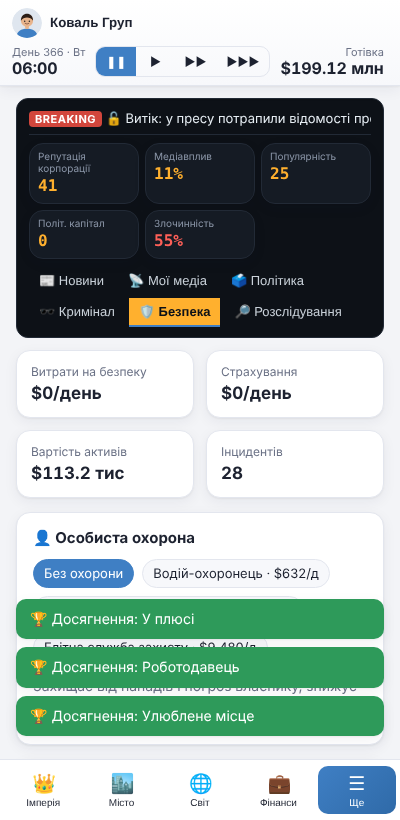
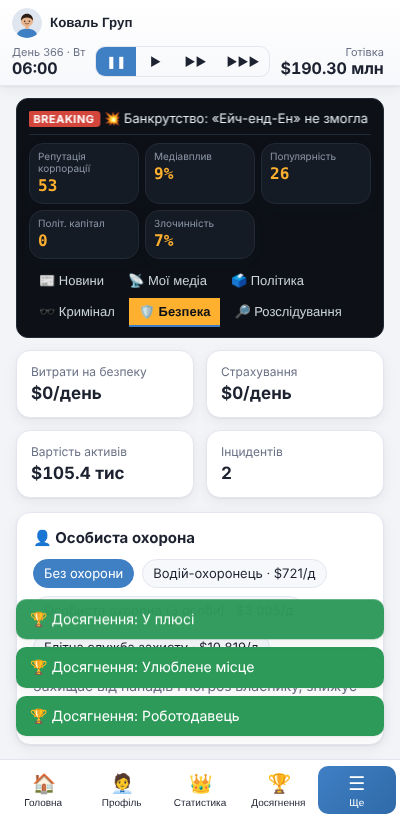
Нова головна сторінка й «Живий світ»
- ui8.js: головна за дизайном гравця — шапка з подіями/досягненнями/налаштуваннями,
  картка CEO з рівнем, 6 розділів з ілюстраціями, біржа BIZ-50, досягнення, подія дня
- liveworld.js: щоденна подія з наслідками — попит на формати, ціни сировини, інфляція,
  ставка ЦБ, рецесія, криза, банкрутства, нові конкуренти, звітність, настрої, постачання
- нижнє меню: Головна · Профіль · Статистика · Досягнення · Ще

Claude-Session: https://claude.ai/code/session_01DFDN7feRuoQwXwDyFoNLor

diff --git a/business-manager/ui8.js b/business-manager/ui8.js
@@ -1,0 +1,85 @@
+'use strict';
+/* БІЗНЕС ІМПЕРІЯ — головна сторінка (за дизайном гравця): шапка з поштою/трофеями/налаштуваннями,
+   картка CEO з рівнем, 6 великих розділів-ілюстрацій, біржа BIZ-50, досягнення й події світу. */
+
+// ---------- ілюстрації (SVG, без зовнішніх файлів) ----------
+const ILL = {
+  business: () => `<svg viewBox="0 0 200 140" preserveAspectRatio="xMidYMid slice"><defs><linearGradient id="isk1" x1="0" y1="0" x2="0" y2="1"><stop offset="0" stop-color="#5fa8e8"/><stop offset="1" stop-color="#cfe6fb"/></linearGradient><linearGradient id="igl" x1="0" y1="0" x2="1" y2="1"><stop offset="0" stop-color="#2f6fb8"/><stop offset=".5" stop-color="#7fb6ea"/><stop offset="1" stop-color="#1d4f8f"/></linearGradient></defs><rect width="200" height="140" fill="url(#isk1)"/><ellipse cx="40" cy="30" rx="30" ry="8" fill="#fff" opacity=".6"/><ellipse cx="150" cy="22" rx="24" ry="6" fill="#fff" opacity=".5"/>${[[10, 70, 22], [34, 45, 26], [62, 20, 34], [98, 35, 28], [128, 55, 24], [154, 30, 30], [184, 65, 20]].map(([x, y, w]) => `<rect x="${x}" y="${y}" width="${w}" height="${140 - y}" fill="url(#igl)"/>${Array.from({ length: Math.floor((140 - y) / 7) }, (_, i) => `<rect x="${x + 2}" y="${y + 3 + i * 7}" width="${w - 4}" height="1.2" fill="#dbeeff" opacity=".55"/>`).join('')}`).join('')}<rect y="128" width="200" height="12" fill="#3c6b4a"/></svg>`,
+  economy: () => `<svg viewBox="0 0 200 140" preserveAspectRatio="xMidYMid slice"><defs><linearGradient id="iec" x1="0" y1="0" x2="0" y2="1"><stop offset="0" stop-color="#0d1d3a"/><stop offset="1" stop-color="#1c3a6b"/></linearGradient><linearGradient id="igd" x1="0" y1="0" x2="1" y2="0"><stop offset="0" stop-color="#b8860b"/><stop offset=".5" stop-color="#ffd66b"/><stop offset="1" stop-color="#c8961e"/></linearGradient></defs><rect width="200" height="140" fill="url(#iec)"/>${Array.from({ length: 14 }, (_, i) => { const h = 10 + ((i * 37) % 30), y = 70 - i * 2 - h / 2; return `<line x1="${10 + i * 13}" x2="${10 + i * 13}" y1="${y - 6}" y2="${y + h + 6}" stroke="${i % 3 ? '#4fb3ff' : '#7aa7d6'}" stroke-width="1"/><rect x="${7 + i * 13}" y="${y}" width="6" height="${h}" fill="${i % 3 ? '#3a8fd6' : '#5a7fa8'}" opacity=".7"/>`; }).join('')}${[[60, 6], [80, 9], [100, 12], [120, 8]].map(([x, n]) => Array.from({ length: n }, (_, k) => `<ellipse cx="${x}" cy="${128 - k * 5}" rx="10" ry="3" fill="url(#igd)" stroke="#8a6410" stroke-width=".4"/>`).join('')).join('')}${[[150, 40], [165, 60], [180, 85]].map(([x, h]) => `<rect x="${x}" y="${130 - h}" width="11" height="${h}" fill="url(#igd)"/>`).join('')}<path d="M100 95 L140 70 L160 78 L190 30" stroke="#ffd66b" stroke-width="5" fill="none" stroke-linecap="round"/><path d="M182 28 L194 24 L192 37 Z" fill="#ffd66b"/></svg>`,
+  state: () => `<svg viewBox="0 0 200 140" preserveAspectRatio="xMidYMid slice"><defs><linearGradient id="ist" x1="0" y1="0" x2="0" y2="1"><stop offset="0" stop-color="#6fb2ea"/><stop offset="1" stop-color="#e2f0fb"/></linearGradient></defs><rect width="200" height="140" fill="url(#ist)"/><circle cx="20" cy="110" r="16" fill="#4f8f4a"/><circle cx="182" cy="108" r="18" fill="#4f8f4a"/><rect x="30" y="58" width="140" height="70" fill="#efe9da"/><polygon points="24,60 100,30 176,60" fill="#e6dfcd" stroke="#cfc6b0"/><polygon points="40,58 100,36 160,58" fill="#f5f0e3"/>${Array.from({ length: 9 }, (_, i) => `<rect x="${38 + i * 15}" y="64" width="6" height="56" fill="#fbf8f0" stroke="#d8cfba" stroke-width=".6"/>`).join('')}<rect x="26" y="120" width="148" height="8" fill="#d8cfba"/><rect x="20" y="128" width="160" height="6" fill="#c9bfa8"/><line x1="70" y1="10" x2="70" y2="40" stroke="#888" stroke-width="1.2"/><rect x="70" y="10" width="16" height="10" fill="#2f6fd6"/><rect x="70" y="15" width="16" height="5" fill="#ffd23f"/><line x1="130" y1="12" x2="130" y2="42" stroke="#888" stroke-width="1.2"/><rect x="130" y="12" width="16" height="10" fill="#d64545"/><rect x="130" y="15.5" width="16" height="3" fill="#fff"/></svg>`,
+  city: () => `<svg viewBox="0 0 200 140" preserveAspectRatio="xMidYMid slice"><defs><linearGradient id="icy" x1="0" y1="0" x2="0" y2="1"><stop offset="0" stop-color="#7cb4e4"/><stop offset="1" stop-color="#d7e8f6"/></linearGradient><linearGradient id="iwt" x1="0" y1="0" x2="0" y2="1"><stop offset="0" stop-color="#2f6ea8"/><stop offset="1" stop-color="#173f66"/></linearGradient></defs><rect width="200" height="140" fill="url(#icy)"/>${[[5, 60, 14], [20, 45, 12], [33, 70, 16], [50, 30, 10], [61, 52, 14], [76, 20, 8], [85, 40, 15], [101, 55, 12], [114, 28, 13], [128, 48, 16], [145, 36, 12], [158, 62, 14], [173, 44, 12], [186, 58, 14]].map(([x, y, w]) => `<rect x="${x}" y="${y}" width="${w}" height="${100 - y}" fill="${['#3d6c9c', '#4f7fb0', '#2c5682', '#6a90b8'][x % 4]}"/>`).join('')}<rect x="79" y="8" width="2" height="12" fill="#2c5682"/><rect y="100" width="200" height="40" fill="url(#iwt)"/>${Array.from({ length: 8 }, (_, i) => `<rect x="${10 + i * 25}" y="${106 + (i % 3) * 8}" width="14" height="1.4" fill="#9cc7ef" opacity=".6"/>`).join('')}</svg>`,
+  dev: () => `<svg viewBox="0 0 200 140" preserveAspectRatio="xMidYMid slice"><defs><linearGradient id="idv" x1="0" y1="0" x2="1" y2="1"><stop offset="0" stop-color="#1b4f8f"/><stop offset="1" stop-color="#0b2347"/></linearGradient><linearGradient id="ifl" x1="0" y1="0" x2="0" y2="1"><stop offset="0" stop-color="#5ec8ff"/><stop offset="1" stop-color="#1f6fd6"/></linearGradient></defs><rect width="200" height="140" fill="url(#idv)"/>${Array.from({ length: 6 }, (_, i) => `<rect x="${8 + i * 32}" y="${20 + (i % 2) * 14}" width="12" height="40" rx="5" fill="#6fb6ff" opacity=".18"/>`).join('')}<rect x="60" y="118" width="80" height="8" rx="2" fill="#e8edf3"/><rect x="92" y="60" width="10" height="58" fill="#d9dfe7"/><rect x="74" y="34" width="14" height="44" rx="3" fill="#f2f5f8" transform="rotate(-28 81 56)"/><rect x="70" y="20" width="10" height="18" rx="2" fill="#2b2f36" transform="rotate(-28 75 29)"/><circle cx="106" cy="76" r="10" fill="#c9d1db"/><rect x="66" y="96" width="44" height="6" fill="#bfc8d3"/><path d="M150 50 L150 74 L132 112 Q130 120 138 120 L176 120 Q184 120 182 112 L164 74 L164 50 Z" fill="#e6f3ff" opacity=".85"/><path d="M140 96 L174 96 L181 112 Q183 119 175 119 L139 119 Q131 119 133 112 Z" fill="url(#ifl)"/><rect x="147" y="44" width="20" height="7" rx="2" fill="#e6f3ff"/></svg>`,
+  other: () => `<svg viewBox="0 0 200 140" preserveAspectRatio="xMidYMid slice"><defs><linearGradient id="iot" x1="0" y1="0" x2="0" y2="1"><stop offset="0" stop-color="#3a4a66"/><stop offset=".6" stop-color="#c88a4a"/><stop offset="1" stop-color="#5a4636"/></linearGradient></defs><rect width="200" height="140" fill="url(#iot)"/><circle cx="160" cy="70" r="22" fill="#ffcf7a" opacity=".5"/>${[[0, 70, 30], [30, 82, 22], [150, 76, 26], [176, 66, 24]].map(([x, y, w]) => `<rect x="${x}" y="${y}" width="${w}" height="${140 - y}" fill="#2e2a2a" opacity=".55"/>`).join('')}<rect x="44" y="72" width="54" height="40" rx="3" fill="#f3efe6" transform="rotate(-8 71 92)"/>${Array.from({ length: 5 }, (_, i) => `<rect x="50" y="${80 + i * 6}" width="${i ? 40 : 30}" height="${i ? 2 : 4}" fill="#555" transform="rotate(-8 71 92)"/>`).join('')}<circle cx="128" cy="108" r="14" fill="#fff"/><path d="M128 94 l5 6 -5 5 -5 -5 Z M114 108 l6 -3 3 6 -5 4 Z M142 108 l-6 -3 -3 6 5 4 Z" fill="#222"/><path d="M60 30 L104 74 M104 30 L60 74" stroke="#d9dde3" stroke-width="5" stroke-linecap="round"/><path d="M60 30 L54 24 M104 30 L110 24" stroke="#8a6a3a" stroke-width="7" stroke-linecap="round"/><path d="M150 24 l6 12 13 2 -10 9 3 13 -12 -7 -12 7 3 -13 -10 -9 13 -2 Z" fill="#ffd23f" opacity=".9"/></svg>`,
+};
+const HOME_CATS = [
+  { k: 'business', icon: '🏢', name: 'Бізнес', sub: 'Компанії, філії та корпорації', views: ['businesses', 'industry', 'divisions', 'cars', 'hq', 'staff', 'map'] },
+  { k: 'economy', icon: '📈', name: 'Економіка', sub: 'Ринки, банки, інвестиції', views: ['finance', 'stocks', 'bank', 'ventures', 'world', 'ranking'] },
+  { k: 'state', icon: '🏛', name: 'Держава', sub: 'Політика, закони й вплив', views: ['politics', 'gov', 'antitrust', 'investigations'] },
+  { k: 'city', icon: '📍', name: 'Місто', sub: 'Інфраструктура й нерухомість', views: ['map', 'citydev', 'realty', 'regions', 'globe'] },
+  { k: 'dev', icon: '⚗', name: 'Розвиток', sub: 'Технології й інновації', views: ['science', 'tech'] },
+  { k: 'other', icon: '⚔', name: 'Інші системи', sub: 'Війни корпорацій, злочинність, ЗМІ й спорт', views: ['corpwar', 'rivals', 'media', 'newsroom', 'underworld', 'security', 'clubs', 'sponsor'] },
+];
+const VIEW_DESC = { businesses: 'ваші магазини', industry: 'заводи й склад', divisions: 'телеком, авіа, готелі, фарма, космос', cars: 'власні моделі авто', hq: 'директори й дочірні компанії', staff: 'працівники й відділи', map: '3D-карта міста', finance: 'звіти й баланс', stocks: 'біржа й IPO', bank: 'кредити й власний банк', ventures: 'інвестиції в стартапи', world: 'сировина, валюти, мита', ranking: 'топ компаній', politics: 'партії, вибори, закони', gov: 'міністерства й бюджет', antitrust: 'частки ринку й справи', investigations: 'суди й розслідування', citydev: 'будівництво інфраструктури', realty: 'квартири, ТЦ, ЖК', regions: 'нові міста', globe: 'світова карта', science: 'дерево технологій', tech: 'IT-продукти й R&D', corpwar: 'альянси, картелі, суди', rivals: 'ІІ-конкуренти', media: 'телеканали, газети, сайти', newsroom: 'термінал новин', underworld: 'угруповання', security: 'охорона й страхування', clubs: 'власні клуби й ліги', sponsor: 'спонсорство команд' };
+
+/** Рівень CEO: досвід за досягнення, капітал, дні в грі й покоління. */
+function ceoLevel() {
+  const nw = Math.max(1, netWorth());
+  const xp = Object.keys(state.achievements).length * 60 + Math.max(0, Math.log10(nw) - 3) * 120 + state.day * 0.8 + (state.life ? (state.life.gen - 1) * 300 : 0);
+  const lvl = Math.floor(Math.sqrt(xp / 25)) + 1, cur = (lvl - 1) * (lvl - 1) * 25, next = lvl * lvl * 25;
+  return { lvl, prog: (xp - cur) / (next - cur) };
+}
+function idxRange(r) { const L = liveState(), n = { w: 7, m: 30, q: 90, y: 365, all: 99999 }[r] || 30; return L.idx.slice(-n - 1); }
+
+Object.assign(VIEWS, {
+  home() {
+    const last = state.ledger[state.ledger.length - 1] || {}, h = state.history;
+    const nw = netWorth(), nwPrev = h.length > 1 ? h[h.length - 2].nw : nw;
+    const C = ceoLevel(), al = typeof empireAlerts === 'function' ? empireAlerts() : [];
+    const L = liveState(), rng = state.ui.idxRange || 'm', pts = idxRange(rng);
+    const iv = pts.length ? pts[pts.length - 1].v : 1000, i0 = pts.length ? pts[0].v : iv, ich = i0 ? iv / i0 - 1 : 0;
+    const mn = Math.min(...pts.map((p) => p.v), iv), mx = Math.max(...pts.map((p) => p.v), iv), W = 300, H = 70;
+    const xy = pts.map((p, i) => `${(i / Math.max(1, pts.length - 1) * W).toFixed(1)},${(H - (p.v - mn) / Math.max(1e-9, mx - mn) * (H - 8) - 4).toFixed(1)}`);
+    const col = ich >= 0 ? '#22a35a' : '#e04848';
+    const got = Object.keys(state.achievements).length, today = L.today && L.today.day >= state.day - 1 ? L.today : null;
+    return `<div class="home">
+      <div class="hhead"><div class="hlogo">👑<div><b>БізІмперія</b><small>Побудуй свою імперію</small></div></div>
+        <div class="hicons"><button data-act="homeEvents" aria-label="Події">✉${al.length ? `<i>${al.length}</i>` : ''}</button><button data-act="nav" data-v="achievements" aria-label="Досягнення">🏆</button><button data-act="nav" data-v="settings" aria-label="Налаштування">⚙</button></div></div>
+      <div class="hprofile" data-act="nav" data-v="personal"><div class="hav">${avatarSVG(state.me.look, 64)}</div><div class="hpinfo"><b>${esc(state.me.name).toUpperCase()} 👑</b><small>CEO · Рівень ${C.lvl}</small><div class="hxp"><i style="width:${Math.round(C.prog * 100)}%"></i></div><small class="hxpp">${Math.round(C.prog * 100)}%</small></div>
+        <div class="hmoney"><div><span>💵</span><b>${moneyK(state.cash).replace('$', '')}</b><small class="${(last.profit || 0) >= 0 ? 'up' : 'down'}">${(last.profit || 0) >= 0 ? '+' : ''}${moneyK(last.profit || 0).replace('$', '')}/день</small></div><div><span>🪙</span><b>${moneyK(nw).replace('$', '')}</b><small class="${nw >= nwPrev ? 'up' : 'down'}">${nw >= nwPrev ? '+' : ''}${moneyK(nw - nwPrev).replace('$', '')}/день</small></div></div></div>
+      <div class="hgrid">${HOME_CATS.map((c) => `<button class="hcat" data-act="homeCat" data-v="${c.k}">${ILL[c.k]()}<div class="hshade"></div><div class="htxt"><b><span>${c.icon}</span> ${c.name}</b><small>${c.sub}</small></div><span class="hchev">›</span></button>`).join('')}</div>
+      <div class="card hstock" data-act="nav" data-v="stocks"><div class="row between"><b>📊 Біржа</b><span>BIZ-50 <b>${iv.toFixed(1)}</b> <span style="color:${col}">${ich >= 0 ? '▲' : '▼'} ${pct(Math.abs(ich), 1)}</span></span></div>
+        <svg viewBox="0 0 ${W} ${H}" preserveAspectRatio="none" class="hspark">${xy.length > 1 ? `<path d="M0,${H} L${xy.join(' L')} L${W},${H} Z" fill="${col}" opacity=".15"/><path d="M${xy.join(' L')}" stroke="${col}" stroke-width="1.6" fill="none" vector-effect="non-scaling-stroke"/>` : `<text x="${W / 2}" y="${H / 2}" text-anchor="middle" font-size="10" fill="currentColor" opacity=".5">історія з’явиться після першого дня</text>`}</svg>
+        <div class="hrng">${[['w', '1т'], ['m', '1м'], ['q', '3м'], ['y', '1р'], ['all', 'Все']].map(([k, n]) => `<button class="${rng === k ? 'on' : ''}" data-act="idxRange" data-v="${k}">${n}</button>`).join('')}</div></div>
+      <div class="hrow"><button class="card hmini" data-act="nav" data-v="achievements"><span class="big">🏆</span><div><b>Досягнення</b><small>${got} / ${ACHIEVEMENTS.length}</small><div class="hxp"><i style="width:${Math.round(got / ACHIEVEMENTS.length * 100)}%"></i></div></div><span class="hchev2">›</span></button>
+        <button class="card hmini" data-act="homeEvents"><span class="big">📅</span><div><b>Події ${al.length ? `<i class="hbadge">${al.length}</i>` : ''}</b><small>${today ? `${today.icon} ${esc(today.title)}` : 'Нові події у світі'}</small></div><span class="hchev2">›</span></button></div>
+      ${today ? `<div class="card hevent ${today.kind}"><small>Подія дня · день ${today.day}</small><p><b>${today.icon} ${esc(today.title)}</b><br>${esc(today.text)}</p>${today.effect ? `<small class="muted">Наслідок: ${esc(today.effect)}</small>` : ''}</div>` : ''}
+    </div>`;
+  },
+});
+
+Object.assign(ACT, {
+  homeCat: (d) => {
+    const c = HOME_CATS.find((x) => x.k === d.v); if (!c) return;
+    const byId = Object.fromEntries(NAV.map((x) => [x[0], x]));
+    showModal(`<h2>${c.icon} ${c.name}</h2><div class="newlist">${c.views.filter((v) => byId[v] || VIEWS[v]).map((v) => `<button data-act="nav" data-v="${v}"><span>${byId[v] ? byId[v][1] : '•'}</span><div><b>${byId[v] ? byId[v][2] : v}</b><br><small>${VIEW_DESC[v] || ''}</small></div></button>`).join('')}</div><div class="row end"><button class="btn" data-act="modalClose">Закрити</button></div>`);
+  },
+  homeEvents: () => {
+    const al = typeof empireAlerts === 'function' ? empireAlerts() : [], L = liveState();
+    showModal(`<h2>📅 Події</h2>${al.length ? `<h3>Потребує уваги</h3><ul class="alerts">${al.map(([k, t, v]) => `<li class="${k}" data-act="nav" data-v="${v}">${t} <span>›</span></li>`).join('')}</ul>` : ''}<h3>Події світу</h3><ul class="log news">${L.hist.slice(0, 20).map((e) => `<li class="${e.kind}"><small>Д${e.day}</small> ${e.icon} <b>${esc(e.title)}</b> — ${esc(e.text)}</li>`).join('') || '<li class="muted">Поки тихо.</li>'}</ul><div class="row end"><button class="btn" data-act="nav" data-v="newsroom">Усі новини</button><button class="btn primary" data-act="modalClose">Закрити</button></div>`);
+  },
+  idxRange: (d) => { state.ui.idxRange = d.v; },
+});
+
+// Нижнє меню: Головна · Профіль · Статистика · Досягнення · Ще
+NAV.unshift(['home', '🏠', 'Головна', true]);
+for (const n of NAV) n[3] = ['home', 'personal', 'empire', 'achievements'].includes(n[0]);
+const NAV_SHORT = { personal: 'Профіль', empire: 'Статистика', achievements: 'Досягнення' };
+renderNav = function () {
+  const v = state.ui.view, cur = v === 'biz' ? 'businesses' : v === 'fac' ? 'industry' : v;
+  const ORDER = ['home', 'personal', 'empire', 'achievements'];
+  const list = [...ORDER.map((id) => NAV.find((x) => x[0] === id)).filter(Boolean), ...NAV.filter((x) => !ORDER.includes(x[0]))];
+  const items = list.map(([id, ic, n, main]) => `<button class="${cur === id ? 'active' : ''} ${main ? 'main' : 'extra'}" data-act="nav" data-v="${id}"><span class="ic">${ic}</span><span class="lbl">${main && isMobile() && NAV_SHORT[id] ? NAV_SHORT[id] : n}</span></button>`).join('');
+  const inMore = !NAV.find((x) => x[0] === cur && x[3]);
+  document.getElementById('nav').innerHTML = items + `<button class="more ${inMore ? 'active' : ''}" data-act="more"><span class="ic">☰</span><span class="lbl">Ще</span></button>`;
+};
+if (typeof NAV_GROUPS !== 'undefined') NAV_GROUPS[0][1].unshift('home');

diff --git a/business-manager/liveworld.js b/business-manager/liveworld.js
@@ -1,0 +1,118 @@
+'use strict';
+/* БІЗНЕС ІМПЕРІЯ — «Живий світ»: щодня одна помітна подія з реальними наслідками
+   (зміни попиту на формати, ціни сировини, інфляційні шоки, рішення ЦБ, рецесії й кризи, банкрутства,
+   поява нових конкурентів, корпоративні новини, що рухають біржу, настрої споживачів, перебої постачання).
+   Плюс біржовий індекс BIZ-50 для головної сторінки. Доповнює наявні випадкові події, не замінює їх. */
+
+const NEW_CO_NAMES = ['Нова Хвиля', 'Ікар Ритейл', 'Полярис Груп', 'Вектор Трейд', 'Сонячна Долина', 'Орбіта Маркет', 'Глорія Холдинг', 'Дельта Фудс', 'Кварта', 'Акорд Стор', 'Меридіан', 'Цитадель Брендс', 'Фенікс Ритейл', 'Атлант Сіті', 'Бриз Кафе', 'Нео Електро'];
+
+function liveState() {
+  if (!state.live) state.live = { today: null, hist: [], idx: [], base: 0, cd: {} };
+  return state.live;
+}
+const capTotal = () => sum(aliveCos(), (c) => c.price * c.shares);
+/** BIZ-50: середня зміна ціни 50 найбільших компаній від дня їхньої появи в індексі. */
+function bizIndex() {
+  const top = aliveCos().sort((a, b) => b.price * b.shares - a.price * a.shares).slice(0, 50);
+  for (const c of top) if (!c.p0) c.p0 = c.price;
+  return top.length ? sum(top, (c) => c.price / c.p0) / top.length * 1000 : 1000;
+}
+function liveEvent(icon, title, text, kind, effect) {
+  const L = liveState();
+  L.today = { day: state.day, icon, title, text, kind, effect };
+  L.hist.unshift(L.today); if (L.hist.length > 60) L.hist.length = 60;
+  news(`${icon} ${title}: ${text}`, 'world', kind, kind === 'bad' && /криз|рецес|обвал|банкрут/i.test(title));
+}
+const retailTypes = () => Object.keys(TYPES).filter((t) => !TYPES[t].dynamic);
+
+const LIVE_EVENTS = {
+  demand: { w: 5, cd: 2, run() {
+    const t = pick(retailTypes()), up = chance(0.5), m = +(up ? rnd(1.12, 1.35) : rnd(0.72, 0.9)).toFixed(2), days = ri(5, 14);
+    state.mods.push({ kind: 'demand', key: t, mult: m, days, label: `${up ? '📈' : '📉'} Попит: ${TYPES[t].name} ×${m}` });
+    for (const co of aliveCos().filter((c) => c.sector === t)) co.price *= up ? 1.03 : 0.97;
+    liveEvent(up ? '📈' : '📉', `${up ? 'Зростання' : 'Падіння'} попиту`, `${TYPES[t].name}: ${up ? '+' : '−'}${Math.round(Math.abs(m - 1) * 100)}% покупців на ${days} дн. ${up ? 'Модний тренд у соцмережах.' : 'Покупці перейшли на альтернативи.'}`, up ? 'good' : 'bad', `попит ${TYPES[t].name} ×${m}, ${days} дн.`);
+  } },
+  commodity: { w: 4, cd: 3, run() {
+    const g = pick(Object.keys(GOODS)), up = chance(0.55), m = up ? rnd(1.18, 1.5) : rnd(0.7, 0.86);
+    state.market[g].mult = clamp(state.market[g].mult * m, 0.35, 3);
+    liveEvent(up ? '⛽' : '📦', up ? 'Стрибок цін на ринку' : 'Обвал цін на ринку', `${GOODS[g].name}: ${up ? '+' : '−'}${Math.round(Math.abs(m - 1) * 100)}% до ціни (${up ? 'дефіцит постачання' : 'надлишок на складах'}).`, '', `ціна ${GOODS[g].name} ×${m.toFixed(2)}`);
+  } },
+  inflation: { w: 2, cd: 20, run() {
+    const e = state.econ, d = rnd(1.2, 3);
+    e.inflation = +(e.inflation + d).toFixed(1); e.priceLevel *= 1 + d / 200;
+    liveEvent('💸', 'Інфляційний шок', `Ціни за місяць зросли швидше за прогноз: інфляція ${e.inflation.toFixed(1)}%. Зарплати й закупівлі дорожчають.`, 'bad', `інфляція +${d.toFixed(1)} п.п.`);
+  } },
+  rate: { w: 2, cd: 14, run() {
+    const e = state.econ, up = e.inflation > 7 ? chance(0.7) : e.inflation < 3 ? chance(0.25) : chance(0.45), d = +rnd(0.5, 1.5).toFixed(2);
+    e.rate = clamp(+(e.rate + (up ? d : -d)).toFixed(2), 0.25, 30);
+    for (const co of aliveCos()) co.price *= up ? 0.985 : 1.015;
+    liveEvent('🏦', up ? 'ЦБ підвищив ставку' : 'ЦБ знизив ставку', `Облікова ставка ${up ? 'зросла' : 'знизилась'} на ${d} п.п. до ${e.rate.toFixed(2)}%. Кредити ${up ? 'дорожчають' : 'дешевшають'}, біржа ${up ? 'падає' : 'росте'}.`, up ? 'bad' : 'good', `ставка ${up ? '+' : '−'}${d} п.п.`);
+  } },
+  recession: { w: 0.6, cd: 260, ok: () => ['growth', 'boom'].includes(state.econ.phase) && state.econ.phaseDays > 20, run() {
+    const e = state.econ; e.phase = 'recession'; e.phaseDays = ri(30, 60); e.demand *= 0.96;
+    for (const co of aliveCos()) co.price *= rnd(0.88, 0.96);
+    liveEvent('🌧', 'Початок рецесії', 'Ділова активність падає, споживачі економлять. Попит знижується на 1–3 місяці; держава може запустити субсидії.', 'bad', 'фаза: рецесія');
+  } },
+  crisis: { w: 0.4, cd: 500, ok: () => state.econ.phase !== 'crisis' && state.day > 120, run() {
+    const e = state.econ; e.phase = 'crisis'; e.phaseDays = ri(25, 45); e.demand *= 0.9; e.unemployment += 3;
+    for (const co of aliveCos()) co.price *= rnd(0.7, 0.85);
+    if (state.ipo) state.ipo.price *= 0.8;
+    liveEvent('🔥', 'Фінансова криза', 'Обвал ринків: біржа −15–30%, банки обмежують кредитування, безробіття зростає. Тримайте запас готівки.', 'bad', 'фаза: криза, біржа −20%');
+  } },
+  sector: { w: 3, cd: 4, run() {
+    const secs = [...new Set(aliveCos().map((c) => c.sector))], s = pick(secs), up = chance(0.6), m = up ? rnd(1.06, 1.15) : rnd(0.86, 0.95);
+    for (const co of aliveCos().filter((c) => c.sector === s)) co.price *= m;
+    if (TYPES[s]) state.mods.push({ kind: 'demand', key: s, mult: up ? 1.08 : 0.93, days: 7, label: `${up ? '🚀' : '🔻'} ${SECTORS[s].name}` });
+    liveEvent(up ? '🚀' : '🔻', `${SECTORS[s].name}: ${up ? 'ралі' : 'розпродаж'} акцій`, up ? 'Аналітики підвищили прогнози галузі після сильної звітності лідерів.' : 'Слабкі прогнози й регуляторні ризики тиснуть на галузь.', up ? 'good' : 'bad', `акції сектору ×${m.toFixed(2)}`);
+  } },
+  earnings: { w: 3, cd: 1, run() {
+    const co = pick(aliveCos().filter((c) => !isSub(c))); if (!co) return false;
+    const up = chance(0.55), m = up ? rnd(1.08, 1.2) : rnd(0.82, 0.93);
+    co.price *= m;
+    liveEvent(up ? '📊' : '⚠', `«${co.name}»: ${up ? 'прибуток вище прогнозу' : 'попередження про прибуток'}`, `Акції ${co.ticker} ${up ? '+' : '−'}${Math.round(Math.abs(m - 1) * 100)}%.`, '', `${co.ticker} ×${m.toFixed(2)}`);
+  } },
+  bankrupt: { w: 2, cd: 15, run() {
+    const weak = aliveCos().filter((c) => !isSub(c) && (c.cash < 0 || c.ema < 0)).sort((a, b) => a.cash - b.cash)[0];
+    if (!weak) return false;
+    const name = weak.name;
+    bankruptCompany(weak);
+    liveEvent('💥', 'Банкрутство', `«${name}» не змогла обслуговувати борги й оголосила банкрутство. Її точки звільняються, клієнти шукають нових постачальників.`, 'bad', 'компанія зникла з ринку');
+  } },
+  newcomer: { w: 2, cd: 12, run() {
+    const t = pick(retailTypes()), used = new Set(state.companies.map((c) => c.name));
+    const name = pick(NEW_CO_NAMES.filter((n) => !used.has(n))) || `${pick(NEW_CO_NAMES)} ${ri(2, 9)}`;
+    const co = addCompany(name, (name.replace(/[^А-ЯA-ZІЇЄҐ]/g, '') + 'XX').slice(0, 3) + ri(1, 9), t);
+    co.scale = rnd(0.3, 0.8); co.cash *= 1.5;
+    let n = 0;
+    for (const cid of Object.keys(state.unlocked || {})) {
+      const free = state.lots.filter((l) => lotCityId(l) === cid && !l.owner && !l.npc && DMAP[l.district].zone === 'retail' && !(TYPES[t].minSize && SIZE_ORDER.indexOf(l.size) < SIZE_ORDER.indexOf(TYPES[t].minSize)));
+      for (const l of free.sort(() => Math.random() - 0.5).slice(0, ri(1, 3))) { l.npc = { co: co.id, type: t }; n++; }
+    }
+    liveEvent('🆕', 'Новий конкурент', `На ринок формату «${TYPES[t].name}» виходить «${name}»: ${n} нових точок у ваших містах. Конкуренція посилюється.`, 'bad', `+${n} точок конкурента`);
+  } },
+  mood: { w: 3, cd: 3, run() {
+    const up = chance(0.5), m = up ? 1.1 : 0.9, days = ri(3, 7);
+    state.mods.push({ kind: 'traffic', key: '*', mult: m, days, label: up ? '😊 Оптимізм споживачів' : '😟 Песимізм споживачів' });
+    liveEvent(up ? '😊' : '😟', up ? 'Зростання довіри споживачів' : 'Падіння довіри споживачів', `Опитування: покупці ${up ? 'готові більше витрачати' : 'відкладають покупки'}. Потік покупців ${up ? '+' : '−'}10% на ${days} дн.`, up ? 'good' : 'bad', `покупці ×${m}, ${days} дн.`);
+  } },
+  supply: { w: 2, cd: 10, run() {
+    const days = ri(5, 12);
+    state.mods.push({ kind: 'wholesale', key: null, mult: 1.1, days, label: '🚢 Перебої постачання' });
+    liveEvent('🚢', 'Перебої в ланцюгах постачання', `Затори в портах і нестача контейнерів: оптові ціни +10% на ${days} дн.`, 'bad', `опт ×1.1, ${days} дн.`);
+  } },
+};
+
+function liveDaily() {
+  const L = liveState();
+  const v = bizIndex(); L.idx.push({ d: state.day, v: +v.toFixed(1) }); if (L.idx.length > 400) L.idx.shift();
+  const pool = Object.entries(LIVE_EVENTS).filter(([k, E]) => (L.cd[k] || 0) <= state.day && (!E.ok || E.ok()));
+  for (let tries = 0; tries < 4 && pool.length; tries++) {
+    const tot = sum(pool, ([, E]) => E.w); let r = Math.random() * tot, pickK = pool[0][0];
+    for (const [k, E] of pool) { r -= E.w; if (r <= 0) { pickK = k; break; } }
+    const E = LIVE_EVENTS[pickK];
+    if (E.run() !== false) { L.cd[pickK] = state.day + E.cd; break; }
+    pool.splice(pool.findIndex(([k]) => k === pickK), 1);
+  }
+}
+
+HOOKS.day.push(liveDaily);

diff --git a/business-manager/ui6.js b/business-manager/ui6.js
@@ -41,6 +41,27 @@ function mapRoutes() {
   return r;
 }
 
+function empireAlerts() {
+  const L = state.life;
+  const al = [];
+    const K = state.crime, P = state.pol, W = state.war, G = state.gov;
+    if (state.cash < 0) al.push(['bad', '💸 Від’ємний баланс рахунку', 'finance']);
+    if (K && K.demands.length) al.push(['bad', `📞 Вимагання: ${K.demands.length}`, 'underworld']);
+    if (K && K.blackmail) al.push(['bad', '✉ Шантаж — потрібне рішення', 'underworld']);
+    if (K && K.offers.length) al.push(['', `📦 Сумнівні пропозиції: ${K.offers.length}`, 'underworld']);
+    const myCases = (K ? K.cases.filter((c) => c.target === 'player' && !c.outcome).length : 0) + (P ? P.cases.filter((c) => c.target === 'player' && !c.outcome).length : 0) + (G ? G.cases.filter((c) => c.target === 'player' && c.stage !== 'closed').length : 0) + (W ? W.suits.filter((s) => s.defendant === 'player' && !s.outcome).length : 0);
+    if (myCases) al.push(['bad', `⚖ Справ і позовів проти вас: ${myCases}`, 'investigations']);
+    if (P && P.campaign && P.campaign.cands.some((c) => c.player)) al.push(['', `🗳 Ви берете участь у виборах — голосування в день ${P.campaign.ends}`, 'politics']);
+    if (P && P.tenders.length) al.push(['', `📑 Відкриті держтендери: ${P.tenders.length}`, 'politics']);
+    if (state.corp && state.corp.builds.some((b) => b.ready <= state.day)) al.push(['good', '🛰 Супутник готовий до запуску', 'divisions']);
+    if (state.sci && !state.sci.active && Object.keys(TECHS).some(techAvail)) al.push(['', '🔬 Можна почати нове дослідження', 'science']);
+    if (L && L.health < 40) al.push(['bad', `❤ Здоров’я ${Math.round(L.health)} — варто подбати про себе`, 'personal']);
+    if (L && L.stress > 70) al.push(['bad', `😰 Стрес ${Math.round(L.stress)} — візьміть відпустку`, 'personal']);
+    if (L && L.age > 55 && !L.will) al.push(['', '📜 Складіть заповіт', 'personal']);
+    if (state.media && state.media.campaigns.some((c) => c.target === 'player' && c.by !== 'player')) al.push(['bad', '🗯 Проти вас іде медіакампанія', 'media']);
+  return al;
+}
+
 Object.assign(VIEWS, {
   globe() {
     const layer = state.ui.mapLayer || 'business', zoom = state.ui.mapZoom || 'world', sel = state.ui.globeCity;
@@ -87,22 +108,7 @@ Object.assign(VIEWS, {
     const seg = [['Роздріб', last.sales], ['B2B і заводи', last.b2b], ['IT', last.software], ['Галузі', last.divRev], ['Медіа', last.media], ['Спорт', last.sportInc], ['Банк', last.bankProfit], ['Концесії', last.infraRev], ['Оренда', last.rentInc], ['Електроенергія', last.power]].filter((x) => x[1] > 0).sort((a, b) => b[1] - a[1]);
     const segMax = Math.max(1, ...seg.map((x) => x[1]));
     // тривоги
-    const al = [];
-    const K = state.crime, P = state.pol, W = state.war, G = state.gov;
-    if (state.cash < 0) al.push(['bad', '💸 Від’ємний баланс рахунку', 'finance']);
-    if (K && K.demands.length) al.push(['bad', `📞 Вимагання: ${K.demands.length}`, 'underworld']);
-    if (K && K.blackmail) al.push(['bad', '✉ Шантаж — потрібне рішення', 'underworld']);
-    if (K && K.offers.length) al.push(['', `📦 Сумнівні пропозиції: ${K.offers.length}`, 'underworld']);
-    const myCases = (K ? K.cases.filter((c) => c.target === 'player' && !c.outcome).length : 0) + (P ? P.cases.filter((c) => c.target === 'player' && !c.outcome).length : 0) + (G ? G.cases.filter((c) => c.target === 'player' && c.stage !== 'closed').length : 0) + (W ? W.suits.filter((s) => s.defendant === 'player' && !s.outcome).length : 0);
-    if (myCases) al.push(['bad', `⚖ Справ і позовів проти вас: ${myCases}`, 'investigations']);
-    if (P && P.campaign && P.campaign.cands.some((c) => c.player)) al.push(['', `🗳 Ви берете участь у виборах — голосування в день ${P.campaign.ends}`, 'politics']);
-    if (P && P.tenders.length) al.push(['', `📑 Відкриті держтендери: ${P.tenders.length}`, 'politics']);
-    if (state.corp && state.corp.builds.some((b) => b.ready <= state.day)) al.push(['good', '🛰 Супутник готовий до запуску', 'divisions']);
-    if (state.sci && !state.sci.active && Object.keys(TECHS).some(techAvail)) al.push(['', '🔬 Можна почати нове дослідження', 'science']);
-    if (L && L.health < 40) al.push(['bad', `❤ Здоров’я ${Math.round(L.health)} — варто подбати про себе`, 'personal']);
-    if (L && L.stress > 70) al.push(['bad', `😰 Стрес ${Math.round(L.stress)} — візьміть відпустку`, 'personal']);
-    if (L && L.age > 55 && !L.will) al.push(['', '📜 Складіть заповіт', 'personal']);
-    if (state.media && state.media.campaigns.some((c) => c.target === 'player' && c.by !== 'player')) al.push(['bad', '🗯 Проти вас іде медіакампанія', 'media']);
+    const al = empireAlerts();
     const groups = typeof NAV_GROUPS !== 'undefined' ? NAV_GROUPS : [];
     const byId = Object.fromEntries(NAV.map((x) => [x[0], x]));
     return `<div class="hero"><div class="hero-l">${avatarSVG(state.me.look, 56)}<div><small>${esc(state.company)}${L ? ` · ${typeof statusTitle === 'function' ? statusTitle() : ''} · покоління ${L.gen}` : ''}</small><h1>${moneyK(nw)}</h1><span class="${ch >= 0 ? 'up' : 'down'}">${ch >= 0 ? '▲' : '▼'} ${pct(Math.abs(ch), 1)} за 30 днів</span></div></div>

diff --git a/business-manager/style.css b/business-manager/style.css
@@ -347,3 +347,44 @@ h1 { letter-spacing: .2px; }
 @media (prefers-reduced-motion: reduce) { .globe .route { animation: none; } .tiles button { transition: none; } }
 .gscroll { overflow-x: auto; border-radius: 10px; -webkit-overflow-scrolling: touch; }
 @media (max-width: 700px) { .gscroll.world svg { min-width: 900px; max-height: none; } }
+
+/* ===== Головна (дизайн гравця) ===== */
+.home { max-width: 760px; margin: 0 auto; }
+.hhead { display: flex; justify-content: space-between; align-items: center; margin-bottom: 12px; }
+.hlogo { display: flex; align-items: center; gap: 10px; font-size: 40px; line-height: 1; }
+.hlogo b { display: block; font-size: 26px; color: var(--text); letter-spacing: .2px; } .hlogo small { display: block; font-size: 13px; color: var(--muted); }
+.hicons { display: flex; gap: 8px; }
+.hicons button { position: relative; width: 48px; height: 44px; border-radius: 14px; border: 1px solid var(--line); background: var(--panel); font-size: 22px; cursor: pointer; box-shadow: 0 2px 6px rgba(15, 26, 46, .06); }
+.hicons i { position: absolute; top: -6px; right: -4px; min-width: 20px; height: 20px; border-radius: 10px; background: #e53935; color: #fff; font: 700 11px/20px system-ui; font-style: normal; padding: 0 5px; }
+.hprofile { display: flex; align-items: center; gap: 12px; padding: 12px 14px; border-radius: 18px; color: #fff; cursor: pointer; margin-bottom: 12px;
+  background: linear-gradient(135deg, #1b2a44 0%, #0f1a2e 100%); box-shadow: 0 8px 20px rgba(15, 26, 46, .25); }
+.hav { width: 68px; height: 68px; border-radius: 50%; background: #e9eef5; display: grid; place-items: center; overflow: hidden; border: 2px solid #c9d3e2; flex: none; }
+.hpinfo { flex: 1; min-width: 0; position: relative; }
+.hpinfo b { display: block; font-size: 17px; letter-spacing: .3px; white-space: nowrap; overflow: hidden; text-overflow: ellipsis; } .hpinfo small { color: #b9c4d8; }
+.hxp { height: 8px; border-radius: 4px; background: rgba(255, 255, 255, .15); overflow: hidden; margin-top: 6px; } .hxp i { display: block; height: 100%; background: linear-gradient(90deg, #f0b429, #ffd66b); border-radius: 4px; }
+.hxpp { position: absolute; right: 0; bottom: -2px; font-size: 11px; }
+.hmoney { display: flex; flex-direction: column; gap: 6px; padding-left: 12px; border-left: 1px solid rgba(255, 255, 255, .15); }
+.hmoney div { display: grid; grid-template-columns: 26px auto; column-gap: 6px; align-items: center; }
+.hmoney span { grid-row: span 2; font-size: 22px; } .hmoney b { font-size: 16px; } .hmoney small { font-size: 11px; }
+.hmoney .up, .hprofile .up { color: #4fd18b; } .hmoney .down { color: #ff7a6e; }
+.hgrid { display: grid; grid-template-columns: 1fr 1fr; gap: 10px; margin-bottom: 12px; }
+.hcat { position: relative; height: 150px; border: 0; border-radius: 18px; overflow: hidden; padding: 0; cursor: pointer; text-align: left; color: #fff; box-shadow: 0 6px 16px rgba(15, 26, 46, .18); transition: transform .12s; }
+.hcat:active { transform: scale(.98); }
+.hcat svg { position: absolute; inset: 0; width: 100%; height: 100%; }
+.hshade { position: absolute; inset: 0; background: linear-gradient(180deg, rgba(5, 12, 28, 0) 25%, rgba(5, 12, 28, .82) 100%); }
+.htxt { position: absolute; left: 12px; right: 30px; bottom: 10px; }
+.htxt b { display: block; font-size: 19px; text-shadow: 0 1px 3px rgba(0, 0, 0, .5); } .htxt b span { margin-right: 2px; }
+.htxt small { display: block; font-size: 12.5px; line-height: 1.3; color: #e6ecf5; margin-top: 2px; }
+.hchev { position: absolute; right: 10px; bottom: 14px; font-size: 26px; line-height: 1; }
+.hstock { cursor: pointer; } .hspark { width: 100%; height: 80px; display: block; margin: 6px 0; color: var(--text); }
+.hrng { display: flex; justify-content: space-between; gap: 4px; }
+.hrng button { flex: 1; border: 0; border-radius: 10px; padding: 6px 0; background: var(--panel2); color: var(--text); cursor: pointer; font-size: 13px; }
+.hrng button.on { background: #2f6fd6; color: #fff; font-weight: 600; }
+.hrow { display: grid; grid-template-columns: 1fr 1fr; gap: 10px; }
+.hmini { display: flex; align-items: center; gap: 10px; text-align: left; cursor: pointer; color: var(--text); font: inherit; border: 1px solid var(--line); position: relative; }
+.hmini div { flex: 1; min-width: 0; } .hmini small { display: block; color: var(--muted); white-space: nowrap; overflow: hidden; text-overflow: ellipsis; }
+.hmini .hxp { background: var(--line); } .hchev2 { color: #2f6fd6; font-size: 24px; }
+.hbadge { display: inline-block; min-width: 18px; height: 18px; border-radius: 9px; background: #e53935; color: #fff; font: 700 11px/18px system-ui; font-style: normal; text-align: center; padding: 0 4px; }
+.hevent { border-left: 4px solid var(--accent); } .hevent.bad { border-left-color: var(--bad); } .hevent.good { border-left-color: var(--good); }
+.hevent p { margin: 4px 0; }
+@media (max-width: 420px) { .hcat { height: 132px; } .htxt b { font-size: 17px; } .hmoney b { font-size: 14px; } .hav { width: 56px; height: 56px; } .hlogo b { font-size: 22px; } .hicons button { width: 42px; height: 40px; } }

diff --git a/business-manager/sim.js b/business-manager/sim.js
@@ -31,7 +31,7 @@ function newGame(o = {}) {
     depts: { hr: 0, accounting: 0, legal: 0, rnd: 0, marketing: 0, sales: 0 },
     tech: { points: 0, retail: 0, industry: 0, auto: 0, it: 0 },
     led: {}, ledger: [], invPrev: 0, history: [], log: [], news: [], achievements: {}, flags: {}, over: false, negDays: 0,
-    ui: { view: 'empire', bizId: null, facId: null, tab: 'overview', lot: null },
+    ui: { view: 'home', bizId: null, facId: null, tab: 'overview', lot: null },
   };
   for (const g of Object.keys(GOODS)) state.market[g] = { mult: rnd(0.9, 1.1) };
   genCompanies();
@@ -186,7 +186,7 @@ function competitors(b) {
   return s * modMult('pricewar', b.type);
 }
 function trafficMult(districtId, type, C = city()) {
-  let m = (typeof sponsorTraffic === 'function' ? sponsorTraffic() : 1) * (typeof prTraffic === 'function' ? prTraffic() : 1) * (typeof crimeTraffic === 'function' ? crimeTraffic(C) : 1) * modMult('traffic', districtId) * modMult('traffic', '*') * C.traffic * state.econ.demand * (1 + 0.03 * state.depts.marketing);
+  let m = (typeof sponsorTraffic === 'function' ? sponsorTraffic() : 1) * (typeof prTraffic === 'function' ? prTraffic() : 1) * (typeof crimeTraffic === 'function' ? crimeTraffic(C) : 1) * modMult('traffic', districtId) * modMult('traffic', '*') * modMult('demand', type) * C.traffic * state.econ.demand * (1 + 0.03 * state.depts.marketing);
   if (typeof cityMult === 'function' && typeof cityIdOf === 'function') { const cid = cityIdOf(C); m *= cityMult(cid, 'traffic'); if (districtId === 'center' || districtId === 'river') m *= cityMult(cid, 'tourism'); }
   if (C.tourism && (districtId === 'center' || districtId === 'river')) m *= C.tourism;
   const wd = weekday();
@@ -1016,6 +1016,7 @@ function migrateState() {
   if (typeof lifeState === 'function') lifeState();
   if (typeof clubsState === 'function') clubsState();
   if (typeof groupState === 'function') groupState();
+  if (typeof liveState === 'function') liveState();
   if (typeof hqState === 'function') hqState();
 }
 

diff --git a/business-manager/ui4.js b/business-manager/ui4.js
@@ -78,8 +78,10 @@ Object.assign(ACT, {
 });
 
 // ---------- Версія, «Що нового», згруповане меню ----------
-const GAME_VERSION = '3.2 · свої люди'
+const GAME_VERSION = '3.3 · живий світ'
 const WHATS_NEW = [
+  ['home', '🏠', 'Нова головна сторінка', 'картка CEO з рівнем, 6 розділів, біржа BIZ-50, досягнення й події'],
+  ['newsroom', '🌍', 'Живий світ', 'щодня подія з наслідками: попит, ціни, ставки, рецесії, банкрутства, нові конкуренти'],
   ['politics', '♟', 'Свої люди у владі', 'висувайте свою людину в президенти, мери й прем’єри; відставка з передачею посади; президент не може бути мером'],
   ['hq', '🏛', 'Штаб 2.0 і структура групи', 'дочірні компанії за напрямами з CEO, бюджетами й комплаєнсом; детальні налаштування доручень; звіти й карта антимонопольних ризиків'],
   ['empire', '👑', 'Імперія', 'нова головна панель: капітал, склад активів, доходи за напрямами, тривоги'],

diff --git a/business-manager/ui2.js b/business-manager/ui2.js
@@ -21,7 +21,7 @@ function termHead(cur) {
 Object.assign(VIEWS, {
   newsroom() {
     const cat = state.ui.newsCat2 || 'all';
-    const cats = { all: 'Усі', econ: 'Економіка', politics: 'Політика', business: 'Бізнес', corp: 'Компанії', market: 'Ринки', media: 'Медіа', crime: 'Кримінал', tech: 'Технології' };
+    const cats = { all: 'Усі', world: 'Події світу', econ: 'Економіка', politics: 'Політика', business: 'Бізнес', corp: 'Компанії', market: 'Ринки', media: 'Медіа', crime: 'Кримінал', tech: 'Технології' };
     const list = state.news.filter((n) => cat === 'all' || n.cat === cat).slice(0, 100);
     return `${termHead('newsroom')}<div class="chips filter">${Object.entries(cats).map(([k, v]) => `<button class="chip ${cat === k ? 'on' : ''}" data-act="newsCat2" data-v="${k}">${v}</button>`).join('')}</div>
       <div class="card"><ul class="log news">${list.map((n) => `<li class="${n.kind} ${n.breaking ? 'breaking' : ''}"><small>Д${n.day}</small> ${n.breaking ? '<b class="brk">BREAKING</b> ' : ''}${esc(n.text)}${n.fake ? ' <span class="tag bad">фейк</span>' : ''}</li>`).join('') || '<li class="muted">Новин немає.</li>'}</ul></div>`;

diff --git a/business-manager/ui.js b/business-manager/ui.js
@@ -1107,7 +1107,7 @@ if (typeof window !== 'undefined') window.androidBack = function () {
   if (state.ui.view === 'map' && state.ui.lot) { state.ui.lot = null; render(true); return true; }
   if (state.ui.view === 'biz') { state.ui.view = 'businesses'; render(true); return true; }
   if (state.ui.view === 'fac') { state.ui.view = 'industry'; render(true); return true; }
-  if (state.ui.view !== 'empire') { state.ui.view = 'empire'; render(true); return true; }
+  if (state.ui.view !== 'home') { state.ui.view = 'home'; render(true); return true; }
   save();
   return false;
 };

diff --git a/business-manager/index.html b/business-manager/index.html
@@ -33,6 +33,7 @@
   <script src="life.js"></script>
   <script src="sport2.js"></script>
   <script src="holdco.js"></script>
+  <script src="liveworld.js"></script>
   <script src="city3d.js"></script>
   <script src="ui.js"></script>
   <script src="ui2.js"></script>
@@ -41,6 +42,7 @@
   <script src="ui5.js"></script>
   <script src="ui6.js"></script>
   <script src="ui7.js"></script>
+  <script src="ui8.js"></script>
   <script>boot();</script>
 </body>
 </html>

diff --git a/docs/ARCHITECTURE.md b/docs/ARCHITECTURE.md
@@ -25,8 +25,10 @@ Android-застосунок (`android/`) — WebView, який завантаж
 | `city.js` | Інфраструктура міст (11 типів, рівні 0–5), будують держава/ІІ/гравець (концесії), населення й міграція, власне місто; ефекти через `cityMult(cid, key)` |
 | `life.js` | Вік (рік = 60 днів), здоров’я, стрес, щастя, медицина; знайомства, шлюб і шлюбний договір, розлучення; діти з характерами й освітою; розкіш і статус; подорожі; благодійність; заповіт, спадкування й династія |
 | `sport2.js` | Власні клуби: склад спортсменів, тренери, спортивний директор, трансфери, стадіони й квитки, ТБ-права й мерч, призові, міжнародний кубок, власна ліга |
+| `liveworld.js` | «Живий світ»: щоденна подія з наслідками (попит, сировина, інфляція, ставка ЦБ, рецесія, криза, банкрутства, нові конкуренти, звітність, настрої, постачання) + індекс BIZ-50 |
 | `city3d.js` | 3D-місто на Three.js (склеєна геометрія, інстанси, обробка втрати контексту) |
 | `ui.js` | Інтерфейс: екрани, дії, обробники |
+| `ui8.js` | Головна сторінка (дизайн гравця): шапка, картка CEO з рівнем, 6 розділів-ілюстрацій, біржа, досягнення, події |
 | `ui7.js` | Штаб 2.0: доручення, структура групи, звіти й карта антимонопольних ризиків |
 | `ui6.js` | «Імперія» (головна панель: капітал, склад активів, доходи за напрямами, тривоги, плитки розділів) і «Світова карта» (SVG, шари бізнес/економіка/політика/інформація/кримінал, маршрути, картки міст) |
 | `ui5.js` | «Особистий кабінет» і «Спортивна імперія» |
